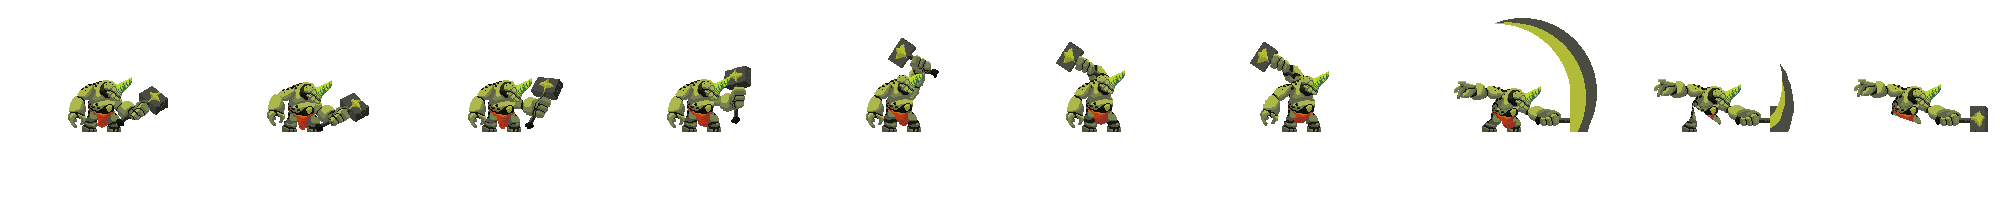
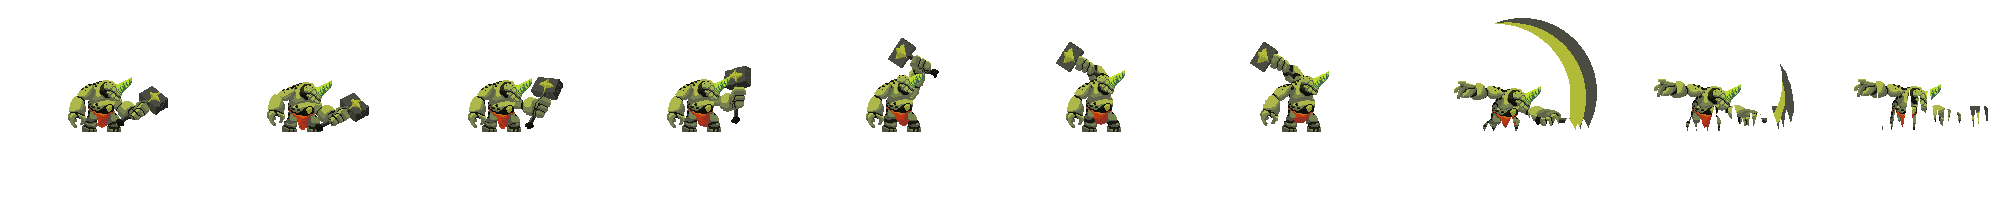
feat(manage_troll) add troll attack

Changed region(s): [[0.93, 0.51, 1.0, 0.66], [0.837, 0.54, 0.899, 0.66], [0.744, 0.6, 0.806, 0.66]]

diff --git a/src/monsters/troll/troll_attack.c b/src/monsters/troll/troll_attack.c
@@ -1,0 +1,69 @@
+/*
+** EPITECH PROJECT, 2023
+** rpg
+** File description:
+** troll_attack
+*/
+
+#include "rpg.h"
+
+static void attack_1(rpg_t *rpg, entity_t *monster)
+{
+    if (rpg->player->grounded &&
+        get_dist(rpg->player->pos, monster->pos) < 400) {
+        hit_player(rpg, monster->damage, rpg->player);
+        rpg->player->health.cd = 0;
+    }
+}
+
+static void attack_2_bis(rpg_t *rpg, entity_t *monster)
+{
+    sfFloatRect intersection = {0};
+    sfFloatRect rect = {monster->pos.x - 60,
+        monster->pos.y + 50, 120, 75};
+
+    rect.left += 80 * -monster->dir;
+    if (sfFloatRect_intersects(&rpg->player->rect,
+        &rect, &intersection) == sfTrue) {
+        hit_player(rpg, monster->damage, rpg->player);
+        rpg->player->health.cd = 0;
+    }
+}
+
+static void attack_2(rpg_t *rpg, entity_t *monster)
+{
+    monster_stat_t ms = {0};
+
+    ms.pos = monster->pos;
+    ms.life = 1;
+    ms.damage = monster->damage;
+    add_monster(rpg, SLASH, ms);
+    (*rpg->monsters)->dir = monster->dir;
+    attack_2_bis(rpg, monster);
+}
+
+static void attack_3(rpg_t *rpg, entity_t *monster)
+{
+    sfFloatRect intersection = {0};
+    sfFloatRect rect = {monster->pos.x,
+        monster->pos.y - monster->rect.height / 2,
+            monster->rect.width * 2, monster->rect.height};
+
+    if (monster->dir == -1)
+        rect.left -= monster->rect.width * 2;
+    if (sfFloatRect_intersects(&rpg->player->rect,
+        &rect, &intersection) == sfTrue && rpg->player->state != ROLL) {
+        hit_player(rpg, monster->damage, rpg->player);
+        rpg->player->health.cd = 0;
+    }
+}
+
+void troll_attack(rpg_t *rpg, entity_t *monster)
+{
+    if (monster->attack.crit == 0)
+        attack_1(rpg, monster);
+    if (monster->attack.crit == 1)
+        attack_2(rpg, monster);
+    if (monster->attack.crit == 2)
+        attack_3(rpg, monster);
+}

diff --git a/src/monsters/troll/manage_troll.c b/src/monsters/troll/manage_troll.c
@@ -7,7 +7,7 @@
 
 #include "rpg.h"
 
-static void set_position_shroom(win_t *win,
+static void set_position_troll(win_t *win,
     entity_t *player, rpg_t *rpg)
 {
     player->velocity += 2500 * win->deltaT;
@@ -22,6 +22,22 @@ static void set_position_shroom(win_t *win,
 
 }
 
+static void select_attack(float dist, entity_t *monster)
+{
+    if (dist < 200 && dist > -200) {
+        monster->attack.crit = 2;
+        monster->state = ATTACK;
+    }
+    if (dist < 120 && dist > -120) {
+        monster->attack.crit = 0;
+        monster->state = ATTACK;
+    }
+    if ((dist > 200 && dist < 400) || (dist < -200 && dist > -400)) {
+        monster->attack.crit = 1;
+        monster->state = ATTACK;
+    }
+}
+
 static void monster_dir(entity_t *monster, rpg_t *rpg)
 {
     float dist = monster->pos.x - rpg->player->pos.x;
@@ -29,14 +45,14 @@ static void monster_dir(entity_t *monster, rpg_t *rpg)
     monster->hor = 0;
     if (get_dist(monster->pos, rpg->player->pos) > 600)
         return;
-    if (dist > 70)
+    if (dist > 150)
         monster->hor = -1;
-    if (dist < -70)
+    if (dist < -150)
         monster->hor = 1;
     if (monster->state != ATTACK &&
-        monster->state != HIT &&
-        dist < 70 && dist > -70 && monster->roll.cd > 0.3)
-        monster->state = ATTACK;
+        monster->state != HIT && monster->roll.cd > 0.8) {
+        select_attack(dist, monster);
+    }
 }
 
 void set_var_troll(entity_t *monster, rpg_t *rpg)
@@ -47,5 +63,5 @@ void set_var_troll(entity_t *monster, rpg_t *rpg)
     monster->grounded = on_ground(monster, rpg->puzzle);
     if (monster->state != ATTACK)
         monster_dir(monster, rpg);
-    set_position_shroom(rpg->win, monster, rpg);
+    set_position_troll(rpg->win, monster, rpg);
 }

diff --git a/src/monsters/shroom/shroom_attack.c b/src/monsters/shroom/shroom_attack.c
@@ -7,7 +7,38 @@
 
 #include "rpg.h"
 
+static void attack_1(rpg_t *rpg, entity_t *monster)
+{
+    sfFloatRect intersection = {0};
+    sfFloatRect rect = {monster->pos.x,
+        monster->pos.y - monster->rect.height / 2,
+            monster->rect.width * 2, monster->rect.height};
+
+    if (monster->dir == -1)
+        rect.left -= monster->rect.width * 2;
+    if (sfFloatRect_intersects(&rpg->player->rect,
+        &rect, &intersection) == sfTrue) {
+        hit_player(rpg, monster->damage, rpg->player);
+        rpg->player->health.cd = 0;
+    }
+}
+
+static void attack_2(rpg_t *rpg, entity_t *monster)
+{
+    monster_stat_t ms = {0};
+
+    ms.pos = monster->pos;
+    ms.life = 1;
+    ms.damage = monster->damage / 3 * 2;
+    add_monster(rpg, BALL, ms);
+    (*rpg->monsters)->dir = monster->dir;
+    monster->roll.cd = -1;
+}
+
 void shroom_attack(rpg_t *rpg, entity_t *monster)
 {
-
+    if (monster->attack.crit == 0)
+        attack_1(rpg, monster);
+    if (monster->attack.crit == 1)
+        attack_2(rpg, monster);
 }

diff --git a/src/monsters/troll/set_sprite_troll.c b/src/monsters/troll/set_sprite_troll.c
@@ -28,8 +28,14 @@ static void new_anim(rpg_t *rpg,
         set_animation(player, asset->ma_troll.idle, 1, NULL);
     if (state == RUN)
         set_animation(player, asset->ma_troll.run, 1, NULL);
-    if (state == ATTACK)
-        set_animation(player, asset->ma_troll.attack_1, 0, attack_anim);
+    if (state == ATTACK) {
+        if (player->attack.crit == 0)
+            set_animation(player, asset->ma_troll.attack_1, 0, attack_anim);
+        if (player->attack.crit == 1)
+            set_animation(player, asset->ma_troll.attack_2, 0, attack_anim);
+        if (player->attack.crit == 2)
+            set_animation(player, asset->ma_troll.attack_3, 0, attack_anim);
+    }
     new_anim_2(rpg, player, asset, state);
 }
 
@@ -73,5 +79,5 @@ void set_sprite_troll(entity_t *player, rpg_t *rpg)
     sfSprite_setPosition(player->sp, player->pos);
     sfSprite_setTextureRect(player->sp, rect);
     if (!(player->health.health <= 0))
-        flip(player);
+        flip_monster(player, rpg->player);
 }

diff --git a/src/init/init_monster_asset_2.c b/src/init/init_monster_asset_2.c
@@ -31,7 +31,6 @@ static ma_t init_ma_troll(void)
 
     ma.attack_1 = init_sprite("assets/monsters/troll/Attack.png",
         (VEC){200, 200}, 10, 5);
-    ma.attack_1.cd = 0.06f;
     ma.death = init_sprite("assets/monsters/troll/Death.png",
         (VEC){200, 200}, 7, 5);
     ma.idle = init_sprite("assets/monsters/troll/Idle.png",
@@ -42,10 +41,9 @@ static ma_t init_ma_troll(void)
     ma.run = init_sprite("assets/monsters/troll/walk.png",
         (VEC){200, 200}, 8, 5);
     ma.attack_3 = init_sprite("assets/monsters/troll/Attack3.png",
-        (VEC){200, 200}, 7, 5);
+        (VEC){200, 200}, 5, 5);
     ma.attack_2 = init_sprite("assets/monsters/troll/Attack2.png",
-        (VEC){200, 200}, 9, 5);
-    ma.attack_1.cd = 0.04f;
+        (VEC){200, 200}, 8, 5);
     return ma;
 }
 

diff --git a/src/player/anim/death_anim.c b/src/player/anim/death_anim.c
@@ -11,6 +11,11 @@ static void player_death(rpg_t *rpg, entity_t *entity)
 {
     int a = 0;
 
+    while (DELTAT(rpg->win->time) < 2.5) {
+        play_sound(DEATH_SOUND, rpg);
+        youdead(rpg, rpg->loading, a);
+        a += 4;
+    }
     stop_loop_song(MAIN_MUSIC2, rpg);
     stop_loop_song(MAIN_MUSIC, rpg);
     entity->state = IDLE;
@@ -19,11 +24,8 @@ static void player_death(rpg_t *rpg, entity_t *entity)
     rpg->data->xp = 0;
     entity->pos = rpg->puzzle->spawn;
     rpg->player->health.cd = 0;
-    while (DELTAT(rpg->win->time) < 2.5) {
-        play_sound(DEATH_SOUND, rpg);
-        youdead(rpg, rpg->loading, a);
-        a += 4;
-    }
+    free_monsters(rpg);
+    init_monsters(rpg);
 }
 
 void death_anim(rpg_t *rpg, entity_t *entity)

diff --git a/src/init/init_monster_asset.c b/src/init/init_monster_asset.c
@@ -35,7 +35,6 @@ static ma_t init_ma_eye(void)
 
     ma.attack_1 = init_sprite("assets/monsters/Eye/Attack.png",
         (VEC){150, 150}, 8, 3);
-    ma.attack_1.cd = 0.05;
     ma.attack_1.cd = 0.07;
     ma.death = init_sprite("assets/monsters/Eye/Death.png",
         (VEC){150, 150}, 4, 3);
@@ -53,7 +52,7 @@ static ma_t init_ma_shroom(void)
 
     ma.attack_1 = init_sprite("assets/monsters/Mushroom/Attack_1.png",
         (VEC){150, 150}, 8, 3);
-    ma.attack_1.cd = 0.06f;
+    ma.attack_1.cd = 0.075f;
     ma.death = init_sprite("assets/monsters/Mushroom/Death.png",
         (VEC){150, 150}, 4, 3);
     ma.idle = init_sprite("assets/monsters/Mushroom/Idle.png",

diff --git a/src/monsters/shroom/manage_shroom.c b/src/monsters/shroom/manage_shroom.c
@@ -34,9 +34,16 @@ static void monster_dir(entity_t *monster, rpg_t *rpg)
     if (dist < -70)
         monster->hor = 1;
     if (monster->state != ATTACK &&
-        monster->state != HIT &&
-        dist < 70 && dist > -70 && monster->roll.cd > 0.3)
-        monster->state = ATTACK;
+        monster->state != HIT && monster->roll.cd > 0.3) {
+        if (dist < 70 && dist > -70) {
+            monster->attack.crit = 0;
+            monster->state = ATTACK;
+        }
+        if (dist > 350 || dist < -350) {
+            monster->attack.crit = 1;
+            monster->state = ATTACK;
+        }
+    }
 }
 
 void set_var_shroom(entity_t *monster, rpg_t *rpg)

diff --git a/src/monsters/shroom/set_sprite_shroom.c b/src/monsters/shroom/set_sprite_shroom.c
@@ -28,8 +28,13 @@ static void new_anim(rpg_t *rpg,
         set_animation(player, asset->ma_shroom.idle, 1, NULL);
     if (state == RUN)
         set_animation(player, asset->ma_shroom.run, 1, NULL);
-    if (state == ATTACK)
-        set_animation(player, asset->ma_shroom.attack_1, 0, attack_anim);
+    if (state == ATTACK) {
+        if (player->attack.crit == 0)
+            set_animation(player, asset->ma_shroom.attack_1, 0, attack_anim);
+        if (player->attack.crit == 1) {
+            set_animation(player, asset->ma_shroom.attack_2, 0, attack_anim);
+        }
+    }
     new_anim_2(rpg, player, asset, state);
 }
 

diff --git a/src/monsters/slash/manage_slash.c b/src/monsters/slash/manage_slash.c
@@ -13,9 +13,10 @@ static void set_position_slash(win_t *win,
     sfFloatRect rect = {0};
 
     move_player(player, (VEC){player->dir * win->deltaT *
-            250, 0});
-    if (sfFloatRect_intersects(&player->rect, &rpg->player->rect, &rect))
-        hit_player(rpg, player->damage / 10, rpg->player);
+            500, 0});
+    if (sfFloatRect_intersects(&player->rect, &rpg->player->rect, &rect) &&
+        rpg->player->state != ROLL)
+        hit_player(rpg, player->damage / 2, rpg->player);
 }
 
 void set_var_slash(entity_t *monster, rpg_t *rpg)

diff --git a/include/monster.h b/include/monster.h
@@ -56,6 +56,8 @@ void set_sprite_slash(entity_t *player, rpg_t *rpg);
 void monster_drop(rpg_t *rpg, entity_t *entity);
 void set_death(rpg_t *rpg, entity_t *entity);
 void eye_attack(rpg_t *rpg, entity_t *monster);
-void eye_attack(rpg_t *rpg, entity_t *monster);
+void shroom_attack(rpg_t *rpg, entity_t *monster);
+void troll_attack(rpg_t *rpg, entity_t *monster);
+void flip_monster(entity_t *monster, entity_t *player);
 
 #endif /* !MONSTER_H_ */

diff --git a/src/init/init_asset.c b/src/init/init_asset.c
@@ -14,7 +14,8 @@ static void init_pa_2(pa_t *pa)
     pa->damage = init_sprite("assets/player/take_damage.png",
         (VEC){48, 48}, 3, 4);
     pa->attack_1 = init_sprite("assets/player/attack_1.png",
-        (VEC){48, 48}, 6, 4);
+        (VEC){48, 48}, 5, 4);
+    pa->attack_1.cd = 0.095;
     pa->attack_2 = init_sprite("assets/player/attack_2.png",
         (VEC){48, 48}, 3, 4);
     pa->fishing = init_sprite("assets/player/fishing.png",
